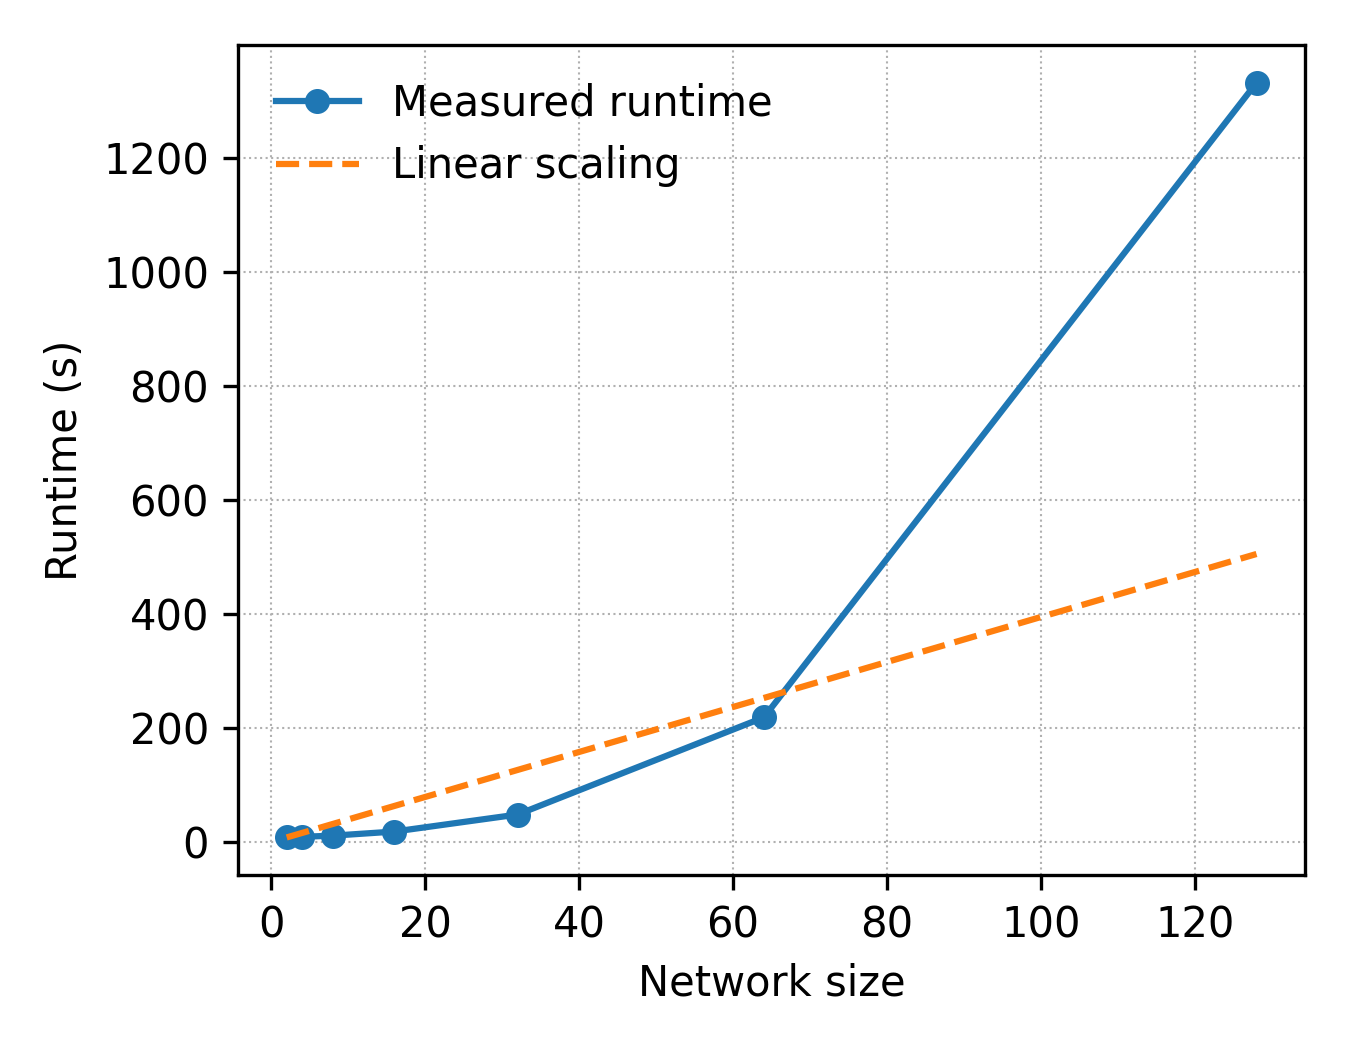
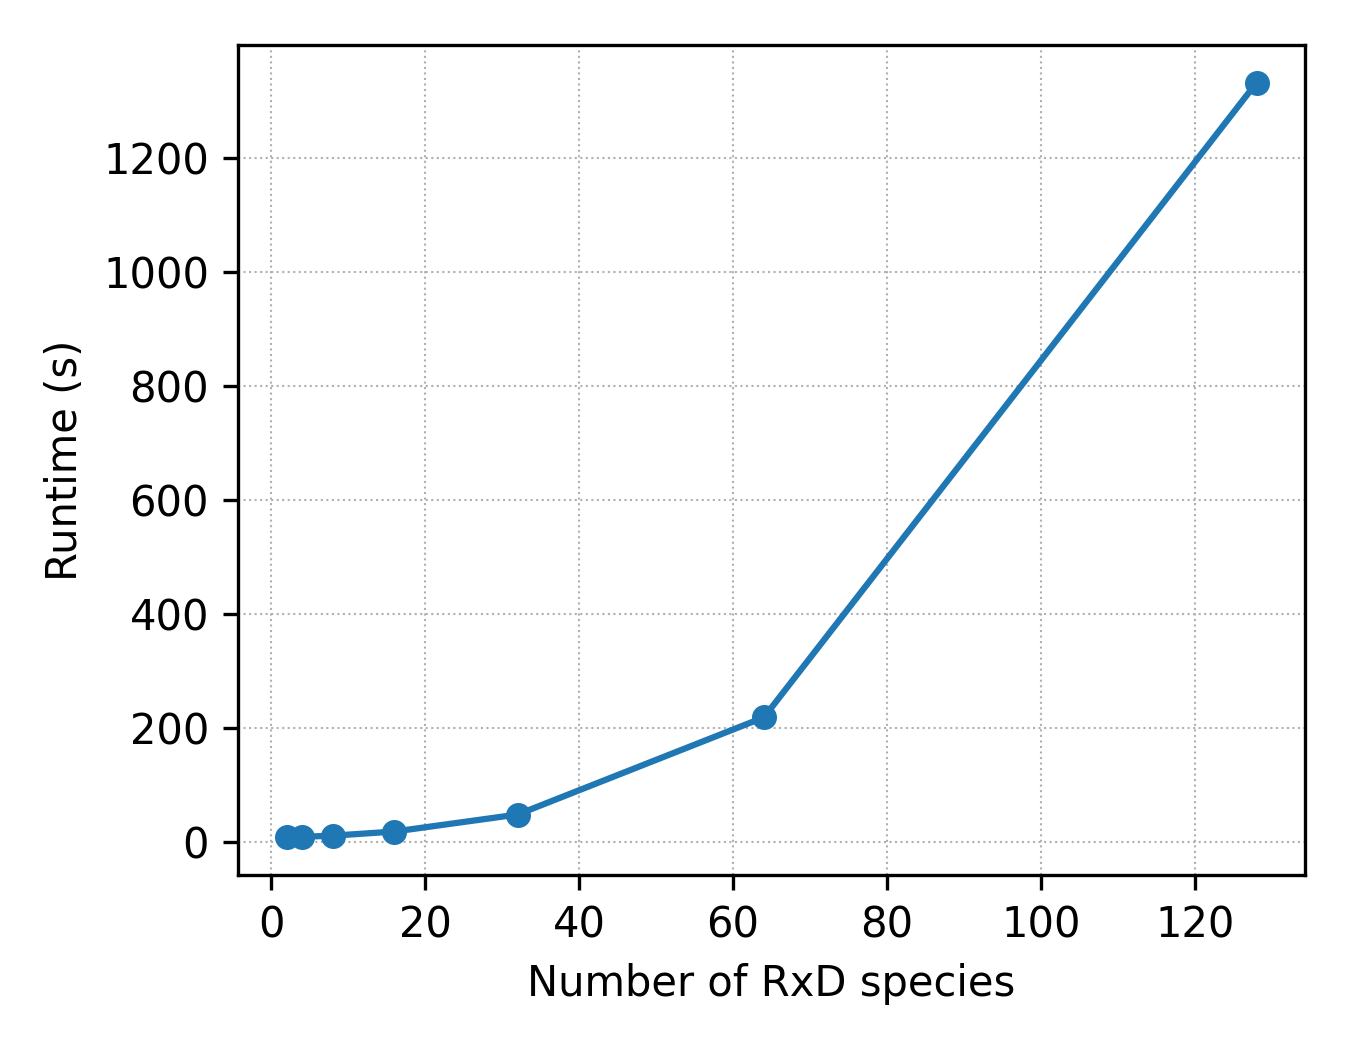
Update figure

diff --git a/virtual_experiments/benchmark_rxd_model_size/plot_rxd_scaling.py b/virtual_experiments/benchmark_rxd_model_size/plot_rxd_scaling.py
@@ -30,28 +30,29 @@ ax.plot(
 )
 
 # Linear scaling reference line (O(N))
-ref = durations[0] * (sizes / sizes[0])
-ax.plot(
-    sizes,
-    ref,
-    linestyle="--",
-    linewidth=1.5,
-    label="Linear scaling"
-)
+if False:
+    ref = durations[0] * (sizes / sizes[0])
+    ax.plot(
+        sizes,
+        ref,
+        linestyle="--",
+        linewidth=1.5,
+        label="Linear scaling"
+    )
 
 # Log-log axes
 # ax.set_xscale("log")
 # ax.set_yscale("log")
 
 # Labels
-ax.set_xlabel("Network size")
+ax.set_xlabel("Number of RxD species")
 ax.set_ylabel("Runtime (s)")
 
 # Grid (subtle, publication-friendly)
 ax.grid(True, which="both", linestyle=":", linewidth=0.5)
 
 # Legend
-ax.legend(frameon=False)
+# ax.legend(frameon=False)
 
 # Tight layout
 fig.tight_layout()
